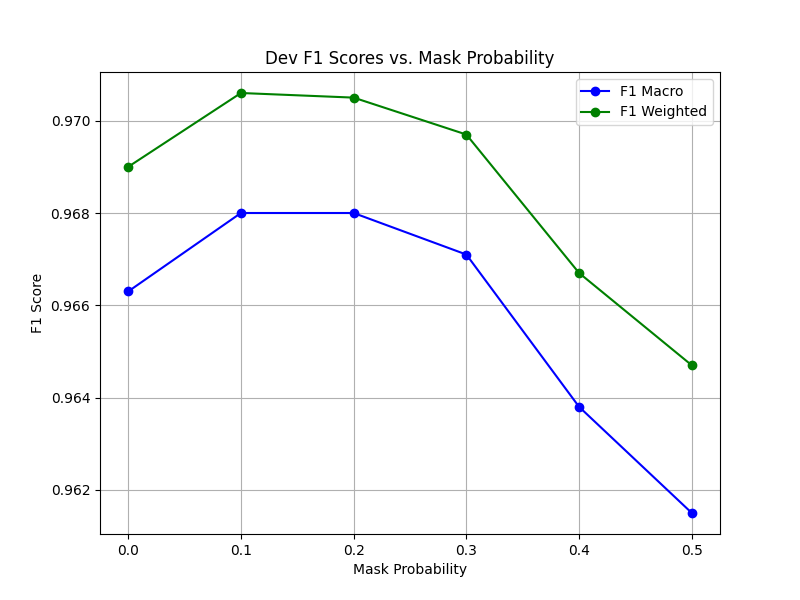
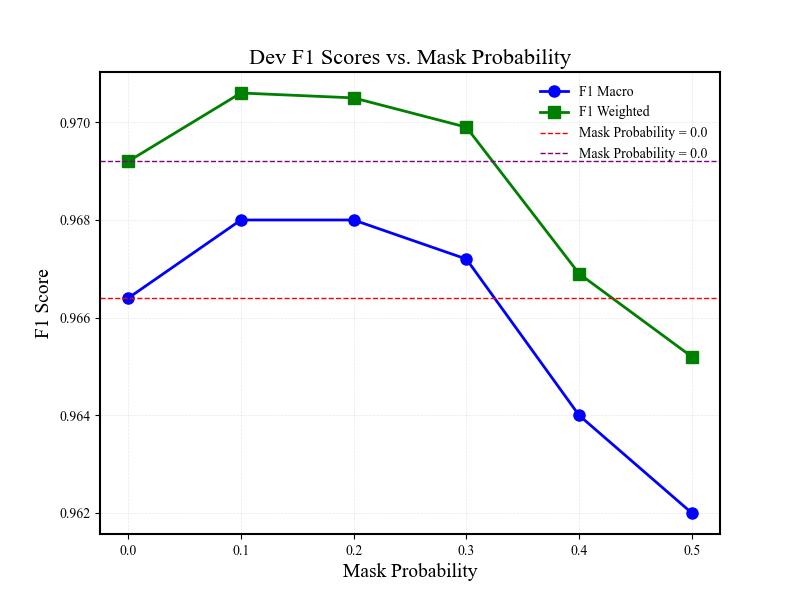
fixed some mistakes and improve the plots. Add bert projections

diff --git a/utils/performance_vs_prob_plot.py b/utils/performance_vs_prob_plot.py
@@ -2,6 +2,7 @@ import re
 import matplotlib.pyplot as plt
 import os
 
+
 def parse_logs(log_file):
     """
     Parses a single log file to extract the best metrics for the corresponding mask probability.
@@ -9,12 +10,14 @@ def parse_logs(log_file):
     best_metrics = {}
     f1_macro_pattern = re.compile(r"F1 Macro: (\d+\.\d+)")
     metrics_pattern = re.compile(
-        r"Dev F1 Macro = (\d+\.\d+), Dev F1 Weighted = (\d+\.\d+)"
+        r"Dev Loss = (\d+\.\d+), Dev F1 Macro = (\d+\.\d+), Dev F1 Weighted = (\d+\.\d+)"
         r"Dev Precision Macro = (\d+\.\d+), Dev Recall Macro = (\d+\.\d+)"
         r"Dev Accuracy = (\d+\.\d+)"
     )
+    test_metrics_pattern = re.compile(r"F1 Macro = (\d+\.\d+), F1 Weighted = (\d+\.\d+)")
 
     with open(log_file, 'r') as f:
+        prev_line = None
         for line in f:
             # Detect the mask probability
             if "Starting training with mask probability" in line:
@@ -27,11 +30,12 @@ def parse_logs(log_file):
                     f1_macro = float(f1_macro_match.group(1))
                     
                     # Extract additional metrics from the preceding line
-                    prev_line = next(f, None)
+                    # prev_line = next(f, None)
                     metrics_match = metrics_pattern.search(prev_line)
                     if metrics_match:
-                        f1_macro, f1_weighted, precision_macro, recall_macro, accuracy = map(float, metrics_match.groups())
+                        dev_loss, f1_macro, f1_weighted, precision_macro, recall_macro, accuracy = map(float, metrics_match.groups())
                         best_metrics[current_prob] = {
+                            "Dev Loss": dev_loss,
                             "F1 Macro": f1_macro,
                             "F1 Weighted": f1_weighted,
                             "Precision Macro": precision_macro,
@@ -40,6 +44,17 @@ def parse_logs(log_file):
                         }
                     else:
                         print(f"Metrics not found in line: {prev_line}")
+            prev_line = line
+        last_line = prev_line
+        test_metricss_match = test_metrics_pattern.search(last_line)
+        if test_metricss_match:
+            f1_macro, f1_weighted = map(float, test_metricss_match.groups())
+            test_metrics = {
+                "Test F1 Macro": f1_macro,
+                "Test F1 Weighted": f1_weighted,
+            }
+            best_metrics[current_prob].update(test_metrics)
+
     return best_metrics
 
 
@@ -62,18 +77,54 @@ def plot_f1_metrics(best_metrics, output_dir):
     probabilities = sorted(best_metrics.keys())
     f1_macro_values = [best_metrics[prob]["F1 Macro"] for prob in probabilities]
     f1_weighted_values = [best_metrics[prob]["F1 Weighted"] for prob in probabilities]
+
+    test_f1_macro_values = [best_metrics[prob]["Test F1 Macro"] for prob in probabilities]
+    test_f1_weighted_values = [best_metrics[prob]["Test F1 Weighted"] for prob in probabilities]
     
     os.makedirs(output_dir, exist_ok=True)
 
+    plt.rcParams.update({
+        'font.family': 'serif',  # 使用衬线字体
+        'font.serif': ['Times New Roman'],  # Times New Roman 字体
+        'axes.titlesize': 14,  # 标题大小
+        'axes.labelsize': 12,  # 坐标轴标签大小
+        'xtick.labelsize': 10,  # x轴标签大小
+        'ytick.labelsize': 10,  # y轴标签大小
+        'legend.fontsize': 10,  # 图例字体大小
+        'axes.linewidth': 1.5,  # 坐标轴线宽
+        'grid.alpha': 0.3  # 网格透明度
+    })
+
     plt.figure(figsize=(8, 6))
-    plt.plot(probabilities, f1_macro_values, marker='o', label="F1 Macro", color="blue")
-    plt.plot(probabilities, f1_weighted_values, marker='o', label="F1 Weighted", color="green")
-    plt.title("Dev F1 Scores vs. Mask Probability")
-    plt.xlabel("Mask Probability")
-    plt.ylabel("F1 Score")
-    plt.legend()
-    plt.grid()
+    plt.plot(probabilities, f1_macro_values, marker='o', label="F1 Macro", color="blue", markersize=8, linestyle='-',
+             linewidth=2)
+    plt.plot(probabilities, f1_weighted_values, marker='s', label="F1 Weighted", color="green", markersize=8,
+             linestyle='-', linewidth=2)
+
+    plt.axhline(y=f1_macro_values[0], color='red', linestyle='--', linewidth=1, label="Mask Probability = 0.0")
+    plt.axhline(y=f1_weighted_values[0], color='purple', linestyle='--', linewidth=1, label="Mask Probability = 0.0")
+
+    plt.title("Dev F1 Scores vs. Mask Probability", fontsize=16)
+    plt.xlabel("Mask Probability", fontsize=14)
+    plt.ylabel("F1 Score", fontsize=14)
+    plt.grid(True, which='both', linestyle='--', linewidth=0.5)
+    plt.legend(loc='upper right', frameon=False)
     plt.savefig(os.path.join(output_dir, "f1_scores_vs_mask_probability.png"))
+    plt.close()
+
+    plt.figure(figsize=(8, 6))
+    plt.plot(probabilities, test_f1_macro_values, marker='o', label="Test F1 Macro", color="blue", markersize=8, linestyle='-',
+             linewidth=2)
+    plt.plot(probabilities, test_f1_weighted_values, marker='s', label="Test F1 Weighted", color="green", markersize=8,
+                linestyle='-', linewidth=2)
+    plt.axhline(y=test_f1_macro_values[0], color='red', linestyle='--', linewidth=1, label="Mask Probability = 0.0")
+    plt.axhline(y=test_f1_weighted_values[0], color='purple', linestyle='--', linewidth=1, label="Mask Probability = 0.0")
+    plt.title("Test F1 Scores vs. Mask Probability", fontsize=16)
+    plt.xlabel("Mask Probability", fontsize=14)
+    plt.ylabel("F1 Score", fontsize=14)
+    plt.grid(True, which='both', linestyle='--', linewidth=0.5)
+    plt.legend(loc='upper right', frameon=False)
+    plt.savefig(os.path.join(output_dir, "test_f1_scores_vs_mask_probability.png"))
     plt.close()
 
 def plot_individual_metrics(best_metrics, output_dir):
@@ -85,14 +136,28 @@ def plot_individual_metrics(best_metrics, output_dir):
     
     os.makedirs(output_dir, exist_ok=True)
 
+    plt.rcParams.update({
+        'font.family': 'serif',  # 使用衬线字体
+        'font.serif': ['Times New Roman'],  # Times New Roman 字体
+        'axes.titlesize': 14,  # 标题大小
+        'axes.labelsize': 12,  # 坐标轴标签大小
+        'xtick.labelsize': 10,  # x轴标签大小
+        'ytick.labelsize': 10,  # y轴标签大小
+        'legend.fontsize': 10,  # 图例字体大小
+        'axes.linewidth': 1.5,  # 坐标轴线宽
+        'grid.alpha': 0.3  # 网格透明度
+    })
+
     for metric in metrics:
         values = [best_metrics[prob][metric] for prob in probabilities]
         plt.figure(figsize=(8, 6))
-        plt.plot(probabilities, values, marker='o', label=metric)
-        plt.title(f"Dev {metric} vs. Mask Probability")
-        plt.xlabel("Mask Probability")
-        plt.ylabel(metric)
-        plt.grid()
+        plt.plot(probabilities, values, marker='o', label=metric, markersize=8, linestyle='-', linewidth=2, color='blue')
+        plt.axhline(y=values[0], color='red', linestyle='--', linewidth=1, label="Mask Probability = 0.0")
+        plt.title(f"Dev {metric} vs. Mask Probability", fontsize=16)
+        plt.xlabel("Mask Probability", fontsize=14)
+        plt.ylabel(metric, fontsize=14)
+        plt.grid(True, which='both', linestyle='--', linewidth=0.5)
+        plt.legend(loc='upper right', frameon=False)
         plt.savefig(os.path.join(output_dir, f"{metric.replace(' ', '_').lower()}_vs_mask_probability.png"))
         plt.close()
 
@@ -104,3 +169,6 @@ plot_directory = "../plots"  # Folder to save the plots
 best_metrics = aggregate_metrics(log_directory)
 plot_f1_metrics(best_metrics, plot_directory)
 plot_individual_metrics(best_metrics, plot_directory)
+# Sort the best metrics by mask probability
+sorted_metrics = {k: best_metrics[k] for k in sorted(best_metrics)}
+print(sorted_metrics)

diff --git a/utils/bert_projection.py b/utils/bert_projection.py
@@ -1,0 +1,111 @@
+import torch
+from transformers import AutoTokenizer, AutoModelForTokenClassification
+import numpy as np
+import matplotlib.pyplot as plt
+from mpl_toolkits.mplot3d import Axes3D
+from CS_Dataset import CSDataset
+
+
+def extract_token_embeddings(model, dataset, device):
+    """
+    Extract token-level embeddings for each class, excluding -100 labels
+    """
+    model.eval()
+    class_embeddings = {0: [], 1: [], 2: []}
+
+    dataloader = torch.utils.data.DataLoader(dataset, batch_size=32, shuffle=False)
+
+    with torch.no_grad():
+        for batch in dataloader:
+            inputs = batch['input_ids'].to(device)
+            attention_mask = batch['attention_mask'].to(device)
+            labels = batch['labels'].cpu().numpy()
+
+            # Get BERT's last hidden state
+            outputs = model(inputs, attention_mask=attention_mask, output_hidden_states=True)
+
+            # Last hidden layer's embeddings
+            hidden_states = outputs.hidden_states[-1].cpu().numpy()
+
+            # Process each sequence in the batch
+            for seq_embedding, seq_labels in zip(hidden_states, labels):
+                # Find tokens that are not -100
+                valid_mask = (seq_labels != -100)
+                valid_labels = seq_labels[valid_mask]
+                valid_embeddings = seq_embedding[valid_mask]
+
+                # Group embeddings by their labels
+                for label in [0, 1, 2]:
+                    label_mask = (valid_labels == label)
+                    if np.any(label_mask):
+                        # Average embedding for tokens with this label
+                        label_embeddings = valid_embeddings[label_mask]
+                        class_embeddings[label].append(label_embeddings.mean(axis=0))
+
+    # Convert to numpy arrays
+    for label in class_embeddings:
+        class_embeddings[label] = np.array(class_embeddings[label])
+
+    return class_embeddings
+
+
+def plot_class_embeddings(class_embeddings, id2label):
+    """
+    Plot 3D scatter of class embeddings
+    """
+    plt.figure(figsize=(12, 10))
+    ax = plt.axes(projection='3d')
+
+    # Color map for three classes
+    colors = ['red', 'green', 'blue']
+
+    for label, color in zip(range(3), colors):
+        # If embeddings exist for this class
+        if len(class_embeddings[label]) > 0:
+            # Take first 3 dimensions if more than 3
+            embeddings = class_embeddings[label][:, :3]
+
+            ax.scatter(
+                embeddings[:, 0],
+                embeddings[:, 1],
+                embeddings[:, 2],
+                c=color,
+                label=id2label[label],
+                alpha=0.7
+            )
+
+    ax.set_xlabel('Dimension 1')
+    ax.set_ylabel('Dimension 2')
+    ax.set_zlabel('Dimension 3')
+    ax.set_title('Token Embeddings by Class')
+    plt.legend()
+
+    plt.tight_layout()
+    plt.savefig('class_embeddings_3d0.0.png')
+    plt.close()  # 关闭图形以节省内存
+
+
+def main():
+    # Configuration
+    model_path = "../outputs/20241205_200855/best_model"  # 替换为你最新的模型路径
+    test_file = '../lid_spaeng/dev.conll'
+
+    # Device setup
+    device = torch.device("cuda" if torch.cuda.is_available() else "mps")
+
+    # Load model and tokenizer
+    model = AutoModelForTokenClassification.from_pretrained(model_path).to(device)
+    tokenizer = AutoTokenizer.from_pretrained(model_path)
+
+    # Load test dataset
+    test_dataset = CSDataset(test_file, tokenizer, mask_out_prob=0)
+
+    # Extract embeddings
+    class_embeddings = extract_token_embeddings(model, test_dataset, device)
+
+    # Plot embeddings
+    plot_class_embeddings(class_embeddings, test_dataset.id2label)
+
+
+if __name__ == "__main__":
+    main()

diff --git a/utils/analysis.py b/utils/analysis.py
@@ -35,15 +35,15 @@ if __name__ == "__main__":
     label_dist2 = dict(sorted(label_dist2.items()))
     label_dist3 = dict(sorted(label_dist3.items()))
     plt.bar(label_dist1.keys(), label_dist1.values())
-    plt.title("Train dataset label distribution")
+    plt.title("Train dataset (SPA-ENG) label distribution")
     plt.xticks(rotation=90)
     plt.subplot(1, 3, 2)
     plt.bar(label_dist2.keys(), label_dist2.values())
-    plt.title("Eval dataset label distribution")
+    plt.title("Eval dataset label (SPA-ENG) distribution")
     plt.xticks(rotation=90)
     plt.subplot(1, 3, 3)
     plt.bar(label_dist3.keys(), label_dist3.values())
-    plt.title("Test dataset label distribution")
+    plt.title("Test dataset label (NEP-ENG) distribution")
     plt.xticks(rotation=90)
     plt.tight_layout()
     plt.savefig("../plot/label_distribution.png")

diff --git a/README.md b/README.md
@@ -39,7 +39,7 @@ python train.py
 Train the model on the English-Spanish with masking out and test on the English-Hindi.
 
 ## Results
-![Loss](plot/training_curves.png)
+![Loss](plots/training_curves.png)
 
 - Mask Out Prob = 0
 
@@ -58,7 +58,7 @@ Train the model on the English-Spanish with masking out and test on the English-
 ## Issue
 
 ### 1. Only calculated the weights depend on the training data.
-![label_distribution](plot/label_distribution.png)
+![label_distribution](plots/label_distribution.png)
 
 ### 
 
